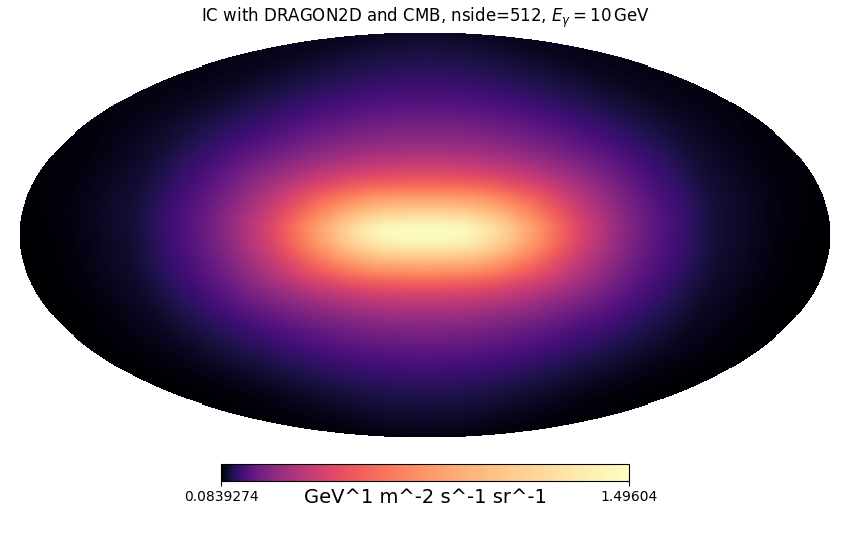
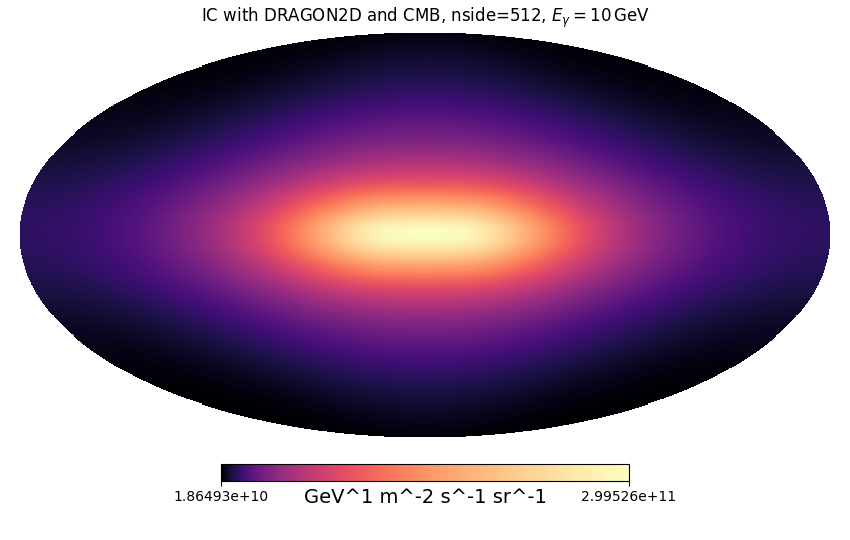
e4-gammaray-spectra.py and FITS files

diff --git a/python/e4-gammaray-spectra.py b/python/e4-gammaray-spectra.py
@@ -7,14 +7,27 @@ import matplotlib.pyplot as plt
 
 name = "gammarays-1GeV-1TeV-{}-{}".format('Fornieri20', 'Remy18')
 
-def integrate_template(integrator, nside, window):
-    
-    integrator.setupCacheTable(100, 100, 20)
+galactic_centre = {
+            'label': 'GC',
+            'mask': RectangularWindow([2*deg, -2*deg], [-2*deg, 2*deg])
+        }
+galactic_plane = {
+            'label': 'GalPlane',
+            'mask': RectangularWindow([2*deg, -2*deg], [-2*deg, 2*deg])
+        }
+intermediate_region = {
+            'label': 'InterLatReg',
+            'mask': RectangularWindow([20*deg, -180*deg], [5*deg, 180*deg])
+        }
+local_region = {
+            'label': 'LocReg',
+            'mask': RectangularWindow([90*deg, -180*deg], [20*deg, 180*deg])
+        }
+
+def skymap_range_template(integrator, nside, mask):
     sun_pos = Vector3QLength(8.0*kpc, 0*pc, 0*pc)
     integrator.setSunPosition(sun_pos)
 
-    mask = RectangularWindow(*window)
-    
     skymap_range = GammaSkymapRange(nside, 1*GeV, 1*TeV, 15)
     skymap_range.setIntegrator(integrator)
     skymap_range.setMask(mask)
@@ -23,44 +36,41 @@ def integrate_template(integrator, nside, window):
     
     return skymap_range
 
-def integrate_pizero(gas, window):
-    nside = 256
+def integrate_pizero(gas, mask):
+    nside = 512
     protons = cosmicrays.Dragon2D(Proton)
     heliums = cosmicrays.Dragon2D(Helium)
     integrator = PiZeroIntegrator([protons, heliums], gas, interactions.Kamae06Gamma())
-    return integrate_template(integrator, nside, window)
+    integrator.setupCacheTable(100, 100, 20)
+    return skymap_range_template(integrator, nside, mask)
 
-def integrate_bremss(gas, window):
-    nside = 256
+def integrate_bremss(gas, mask):
+    nside = 512
     leptons = cosmicrays.Dragon2D([Electron, Positron])
     integrator = PiZeroIntegrator(leptons, gas, interactions.BremsstrahlungSimple())
-    return integrate_template(integrator, nside, window)
+    integrator.setupCacheTable(100, 100, 20)
+    return skymap_range_template(integrator, nside, mask)
 
-def integrate_IC(window):
+def integrate_IC(mask):
     nside = 128
-    leptons = Dragon2DCRDensity([Electron, Positron])
+    leptons = cosmicrays.Dragon2D([Electron, Positron])
     integrator = InverseComptonIntegrator(leptons, photonfields.ISRF(), interactions.KleinNishina())    
-    return integrate_template(integrator, nside, window)
+    integrator.setupCacheTable(50, 50, 10)
+    return skymap_range_template(integrator, nside, mask)
 
 # Neutral gas contained in the so-called ring model
 neutral_gas_HI = neutralgas.RingModel(neutralgas.RingType.HI)
 neutral_gas_CO = neutralgas.RingModel(neutralgas.RingType.CO)
 
-galactic_centre = {
-            'label': 'GC',
-            'window': ([2*deg, -2*deg], [-2*deg, 2*deg])
-        }
-galactic_plane = {
-            'label': 'GalPlane',
-            'window': ([5*deg, 0*deg], [0*deg, 180*deg])
-        }
+window = intermediate_region #galactic_plane #galactic_centre
 
-window = galactic_plane
+skymap_range = integrate_pizero(neutral_gas_HI, window['mask'])
+skymap_range.save(outputs.HEALPixFormat("!fits/{}-{}-{}.fits.gz".format(name, 'pi0-HI', window['label'])))
 
-skymap_range_pi0_HI = integrate_pizero(neutral_gas_HI, window['window'])
-output_hp = outputs.HEALPixFormat("!fits/{}-{}-{}.fits.gz".format(name, 'pi0-HI', window['label']))
-skymap_range_pi0_HI.save(output_hp)
+skymap_range = integrate_pizero(neutral_gas_CO, window['mask'])
+output_hp = outputs.HEALPixFormat("!fits/{}-{}-{}.fits.gz".format(name, 'pi0-CO', window['label']))
+skymap_range.save(output_hp)
 
-skymap_range_pi0_CO = integrate_pizero(neutral_gas_CO, window['window'])
-output_hp = outputs.HEALPixFormat("!fits/{}-{}-{}.fits.gz".format(name, 'pi0-C0', window['label']))
-skymap_range_pi0_CO.save(output_hp)
+skymap_range = integrate_IC(window['mask'])
+output_hp = outputs.HEALPixFormat("!fits/{}-{}-{}.fits.gz".format(name, 'IC', window['label']))
+skymap_range.save(output_hp)
